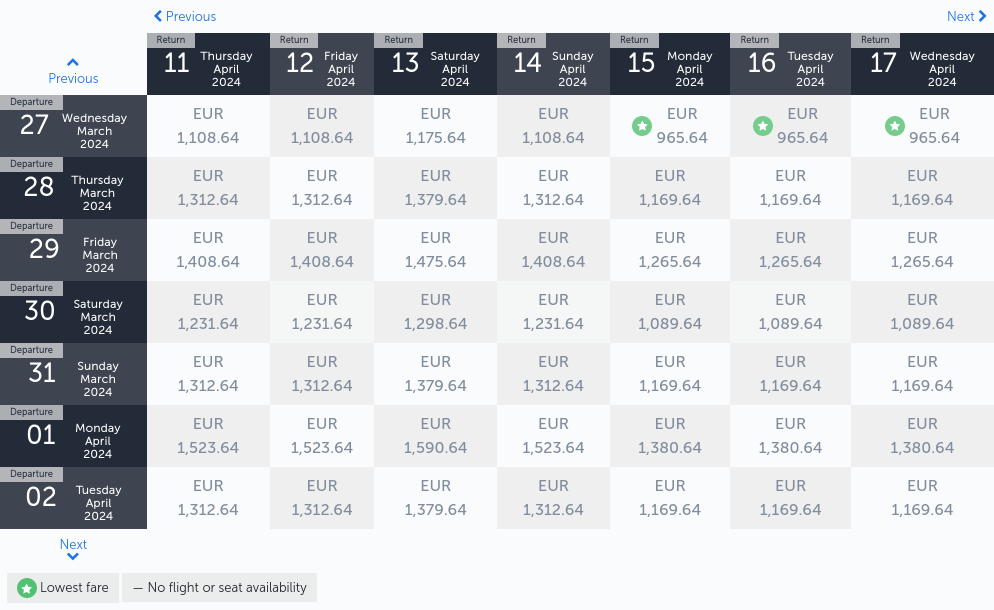
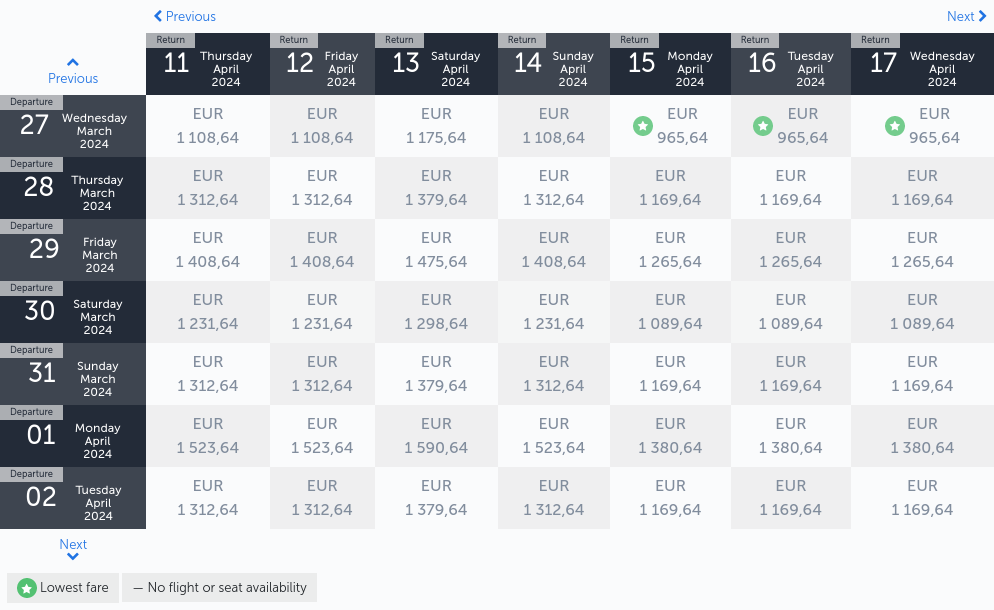
testing with user agent

diff --git a/playwright.config.ts b/playwright.config.ts
@@ -41,6 +41,7 @@ export default defineConfig({
         viewport: { width: 1920, height: 1080 },
         locale: 'fr-BE',
         timezoneId: 'Europe/Brussels',
+        userAgent: "Mozilla/5.0 (X11; Ubuntu; Linux x86_64; rv:109.0) Gecko/20100101 Firefox/114.0"
       },
     },
   ],

diff --git a/scrapes/taiwan/turkish-airlines.md b/scrapes/taiwan/turkish-airlines.md
@@ -2,13 +2,13 @@
 | --- | --- | --- | --- | --- | --- | --- | --- |
 | Previous | Return<br><br>11 Thursday April 2024 | Return<br><br>12 Friday April 2024 | Return<br><br>13 Saturday April 2024 | Return<br><br>14 Sunday April 2024 | Return<br><br>15 Monday April 2024 | Return<br><br>16 Tuesday April 2024 | Return<br><br>17 Wednesday April 2024 |
 | --- | --- | --- | --- | --- | --- | --- | --- |
-| Departure<br><br>27 Wednesday March 2024 | 1,108.64 | 1,108.64 | 1,175.64 | 1,108.64 | 965.64 | 965.64 | 965.64 |
-| Departure<br><br>28 Thursday March 2024 | 1,312.64 | 1,312.64 | 1,379.64 | 1,312.64 | 1,169.64 | 1,169.64 | 1,169.64 |
-| Departure<br><br>29 Friday March 2024 | 1,408.64 | 1,408.64 | 1,475.64 | 1,408.64 | 1,265.64 | 1,265.64 | 1,265.64 |
-| Departure<br><br>30 Saturday March 2024 | 1,231.64 | 1,231.64 | 1,298.64 | 1,231.64 | 1,089.64 | 1,089.64 | 1,089.64 |
-| Departure<br><br>31 Sunday March 2024 | 1,312.64 | 1,312.64 | 1,379.64 | 1,312.64 | 1,169.64 | 1,169.64 | 1,169.64 |
-| Departure<br><br>01 Monday April 2024 | 1,523.64 | 1,523.64 | 1,590.64 | 1,523.64 | 1,380.64 | 1,380.64 | 1,380.64 |
-| Departure<br><br>02 Tuesday April 2024 | 1,312.64 | 1,312.64 | 1,379.64 | 1,312.64 | 1,169.64 | 1,169.64 | 1,169.64 |
+| Departure<br><br>27 Wednesday March 2024 | 1 108,64 | 1 108,64 | 1 175,64 | 1 108,64 | 965,64 | 965,64 | 965,64 |
+| Departure<br><br>28 Thursday March 2024 | 1 312,64 | 1 312,64 | 1 379,64 | 1 312,64 | 1 169,64 | 1 169,64 | 1 169,64 |
+| Departure<br><br>29 Friday March 2024 | 1 408,64 | 1 408,64 | 1 475,64 | 1 408,64 | 1 265,64 | 1 265,64 | 1 265,64 |
+| Departure<br><br>30 Saturday March 2024 | 1 231,64 | 1 231,64 | 1 298,64 | 1 231,64 | 1 089,64 | 1 089,64 | 1 089,64 |
+| Departure<br><br>31 Sunday March 2024 | 1 312,64 | 1 312,64 | 1 379,64 | 1 312,64 | 1 169,64 | 1 169,64 | 1 169,64 |
+| Departure<br><br>01 Monday April 2024 | 1 523,64 | 1 523,64 | 1 590,64 | 1 523,64 | 1 380,64 | 1 380,64 | 1 380,64 |
+| Departure<br><br>02 Tuesday April 2024 | 1 312,64 | 1 312,64 | 1 379,64 | 1 312,64 | 1 169,64 | 1 169,64 | 1 169,64 |
 | Next |
 | Lowest fare — No flight or seat availability |     |     |     |     |     |     |     |
 
